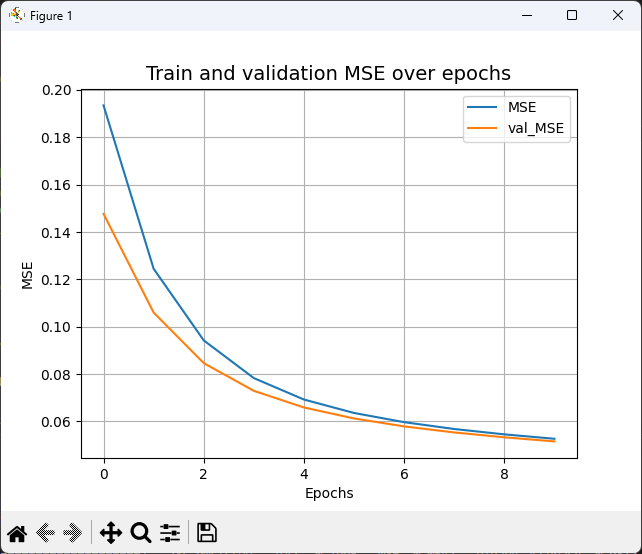
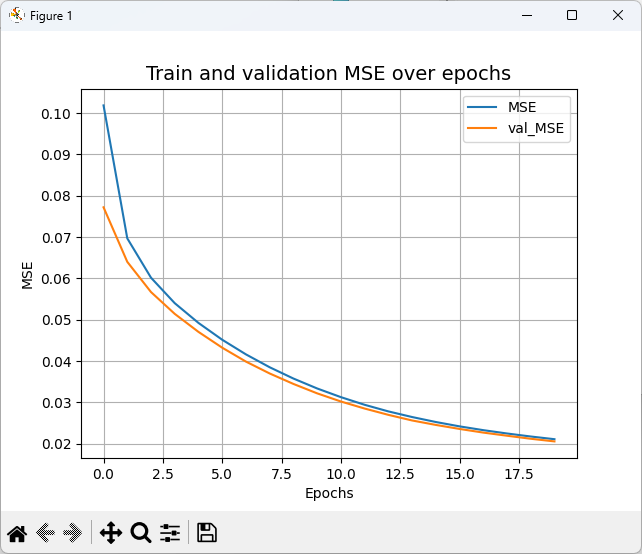
Deleted unnecessary code + updated A2 screenshots

diff --git a/Part A/network.py b/Part A/network.py
@@ -1,4 +1,3 @@
-import tensorflow as tf
 from keras.models import Sequential
 from keras.layers import Dense
 from keras.optimizers import gradient_descent_v2
@@ -8,10 +7,10 @@ from sklearn.model_selection import KFold
 from data_prep import CLASSES
 
 H = 0.001  # Learning rate.
-M = 0.6  # Momentum
+M = 0.0  # Momentum
 NW_IN = 22  # Size of the input of the network.
 NW_OUT = 5  # Output of the network (labels). Equal to the ammount of classes.
-EPOCHS = 10  # Epochs in training
+EPOCHS = 20  # Epochs in training
 BATCH_SIZE = 10  # Batch size
 metrics = ["MSE", "accuracy"]
 h_metrics = metrics + ["loss"]
@@ -28,19 +27,17 @@ def getNetworkInput(processed_df: pd.DataFrame) -> list:
 
 def getModel():
   model = Sequential()
-  model.add(Dense(NW_OUT, input_dim=NW_IN, activation='relu'))
+  model.add(Dense(NW_IN + NW_OUT, input_dim=NW_IN, activation='relu'))
   model.add(Dense(NW_OUT, activation='softmax'))
   model.compile(loss='categorical_crossentropy',
                 optimizer=gradient_descent_v2.SGD(learning_rate=H,
                                                   momentum=M), metrics=metrics)
-  #model.compile(loss='categorical_crossentropy', optimizer='adam',
-  #              metrics=['accuracy', 'MSE'])
   return model
 
-def evaluateModel(X, y) -> tuple[object, pd.DataFrame]:
+def evaluateModel(X, y) -> list[dict, pd.DataFrame]:
   cv = KFold(n_splits=5, shuffle=True)
   final_metrics_list = []
-  best_acc = 0
+  best_loss = 999999
   for i, (train_index, test_index) in enumerate(cv.split(X)):
     X_train, X_test = X[train_index], X[test_index]
     y_train, y_test = y[train_index], y[test_index]
@@ -51,10 +48,10 @@ def evaluateModel(X, y) -> tuple[object, pd.DataFrame]:
         [i + 1] +
         [history.history[metric][-1] for metric in h_metrics + val_metrics])
 
-    val_bin_acc = history.history['val_accuracy'][-1]
-    if val_bin_acc > best_acc:
-      best_history = history
-      best_acc = val_bin_acc
+    val_loss = history.history['val_loss'][-1]
+    if val_loss < best_loss:
+      best_history = history.history
+      best_loss = val_loss
 
   final_metrics = pd.DataFrame(final_metrics_list, columns=["Fold"] +
                                h_metrics + val_metrics).set_index('Fold')
@@ -62,14 +59,14 @@ def evaluateModel(X, y) -> tuple[object, pd.DataFrame]:
   best_row_index = final_metrics['val_loss'].idxmin()
   final_metrics.loc["Best"] = final_metrics.loc[best_row_index]
 
-  return (best_history, final_metrics)
+  return [best_history, final_metrics]
 
 def plot_result(history, item):
   """Used for the graphs. Takes as input the name of the metric and 
     outputs graphs with the progression of said metric over EPOCHS."""
 
-  plt.plot(history.history[item], label=item)
-  plt.plot(history.history["val_" + item], label="val_" + item)
+  plt.plot(history[item], label=item)
+  plt.plot(history["val_" + item], label="val_" + item)
   plt.xlabel("Epochs")
   plt.ylabel(item)
   plt.title("Train and validation {} over epochs".format(item), fontsize=14)

diff --git a/Part A/main.py b/Part A/main.py
@@ -1,9 +1,5 @@
 import data_prep
 import network
-import network3
-from keras.models import load_model, save_model
-import pickle
-from pprint import pprint
 
 def main():
   preprocessed_df = data_prep.preprocessDataset()
@@ -11,13 +7,8 @@ def main():
   X, y = network.getNetworkInput(preprocessed_df)
   best_history, final_metrics = network.evaluateModel(X, y)
 
-  pprint(final_metrics)
+  print(final_metrics)
   network.plot_history(best_history)
-
-  #history = network.train_test_model(X, y)
-  #network.plot_history(history)
-
-  #network3.train_network(X, y)
 
 if __name__ == '__main__':
   main()
